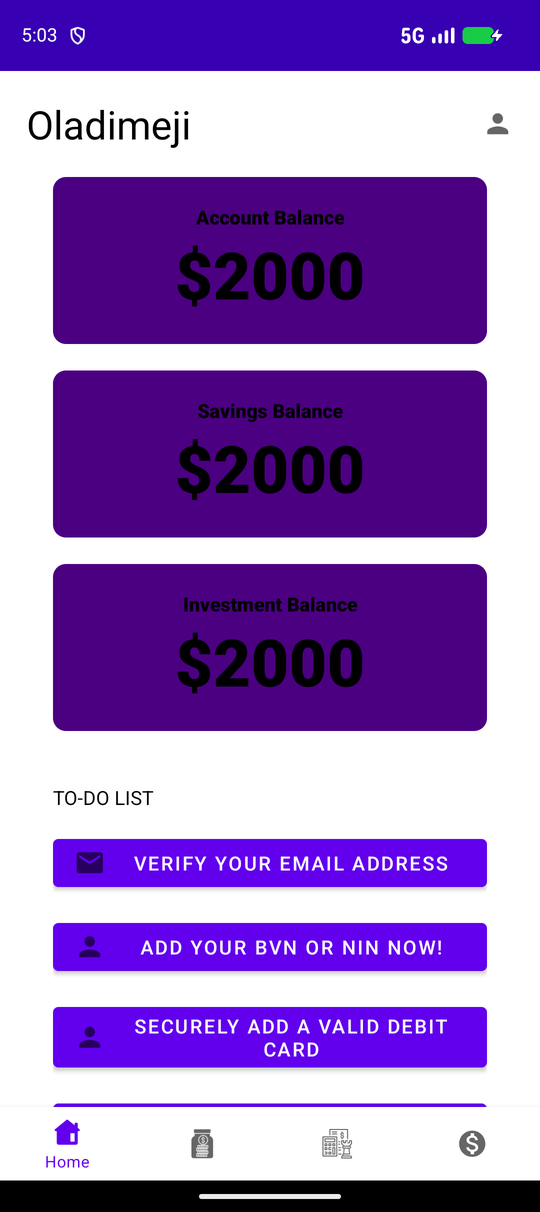
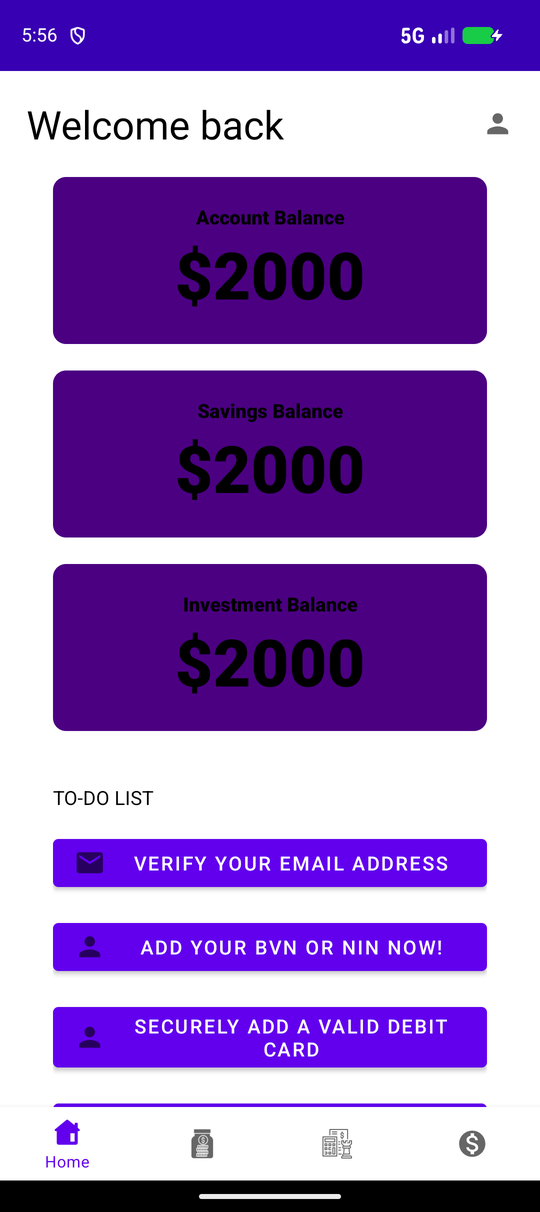
README: credit GitHub handle only

Changed region(s): [[0.0296, 0.0916, 0.5333, 0.1221], [0.0889, 0.0, 0.1185, 0.0305]]

diff --git a/README.md b/README.md
@@ -86,4 +86,4 @@ You can also open the folder in Android Studio and press **Run**.
 
 ## Author
 
-**Oladimeji Micheal Tomisin** — [GitHub @Mickool17](https://github.com/Mickool17)
+Built by [@Mickool17](https://github.com/Mickool17)
